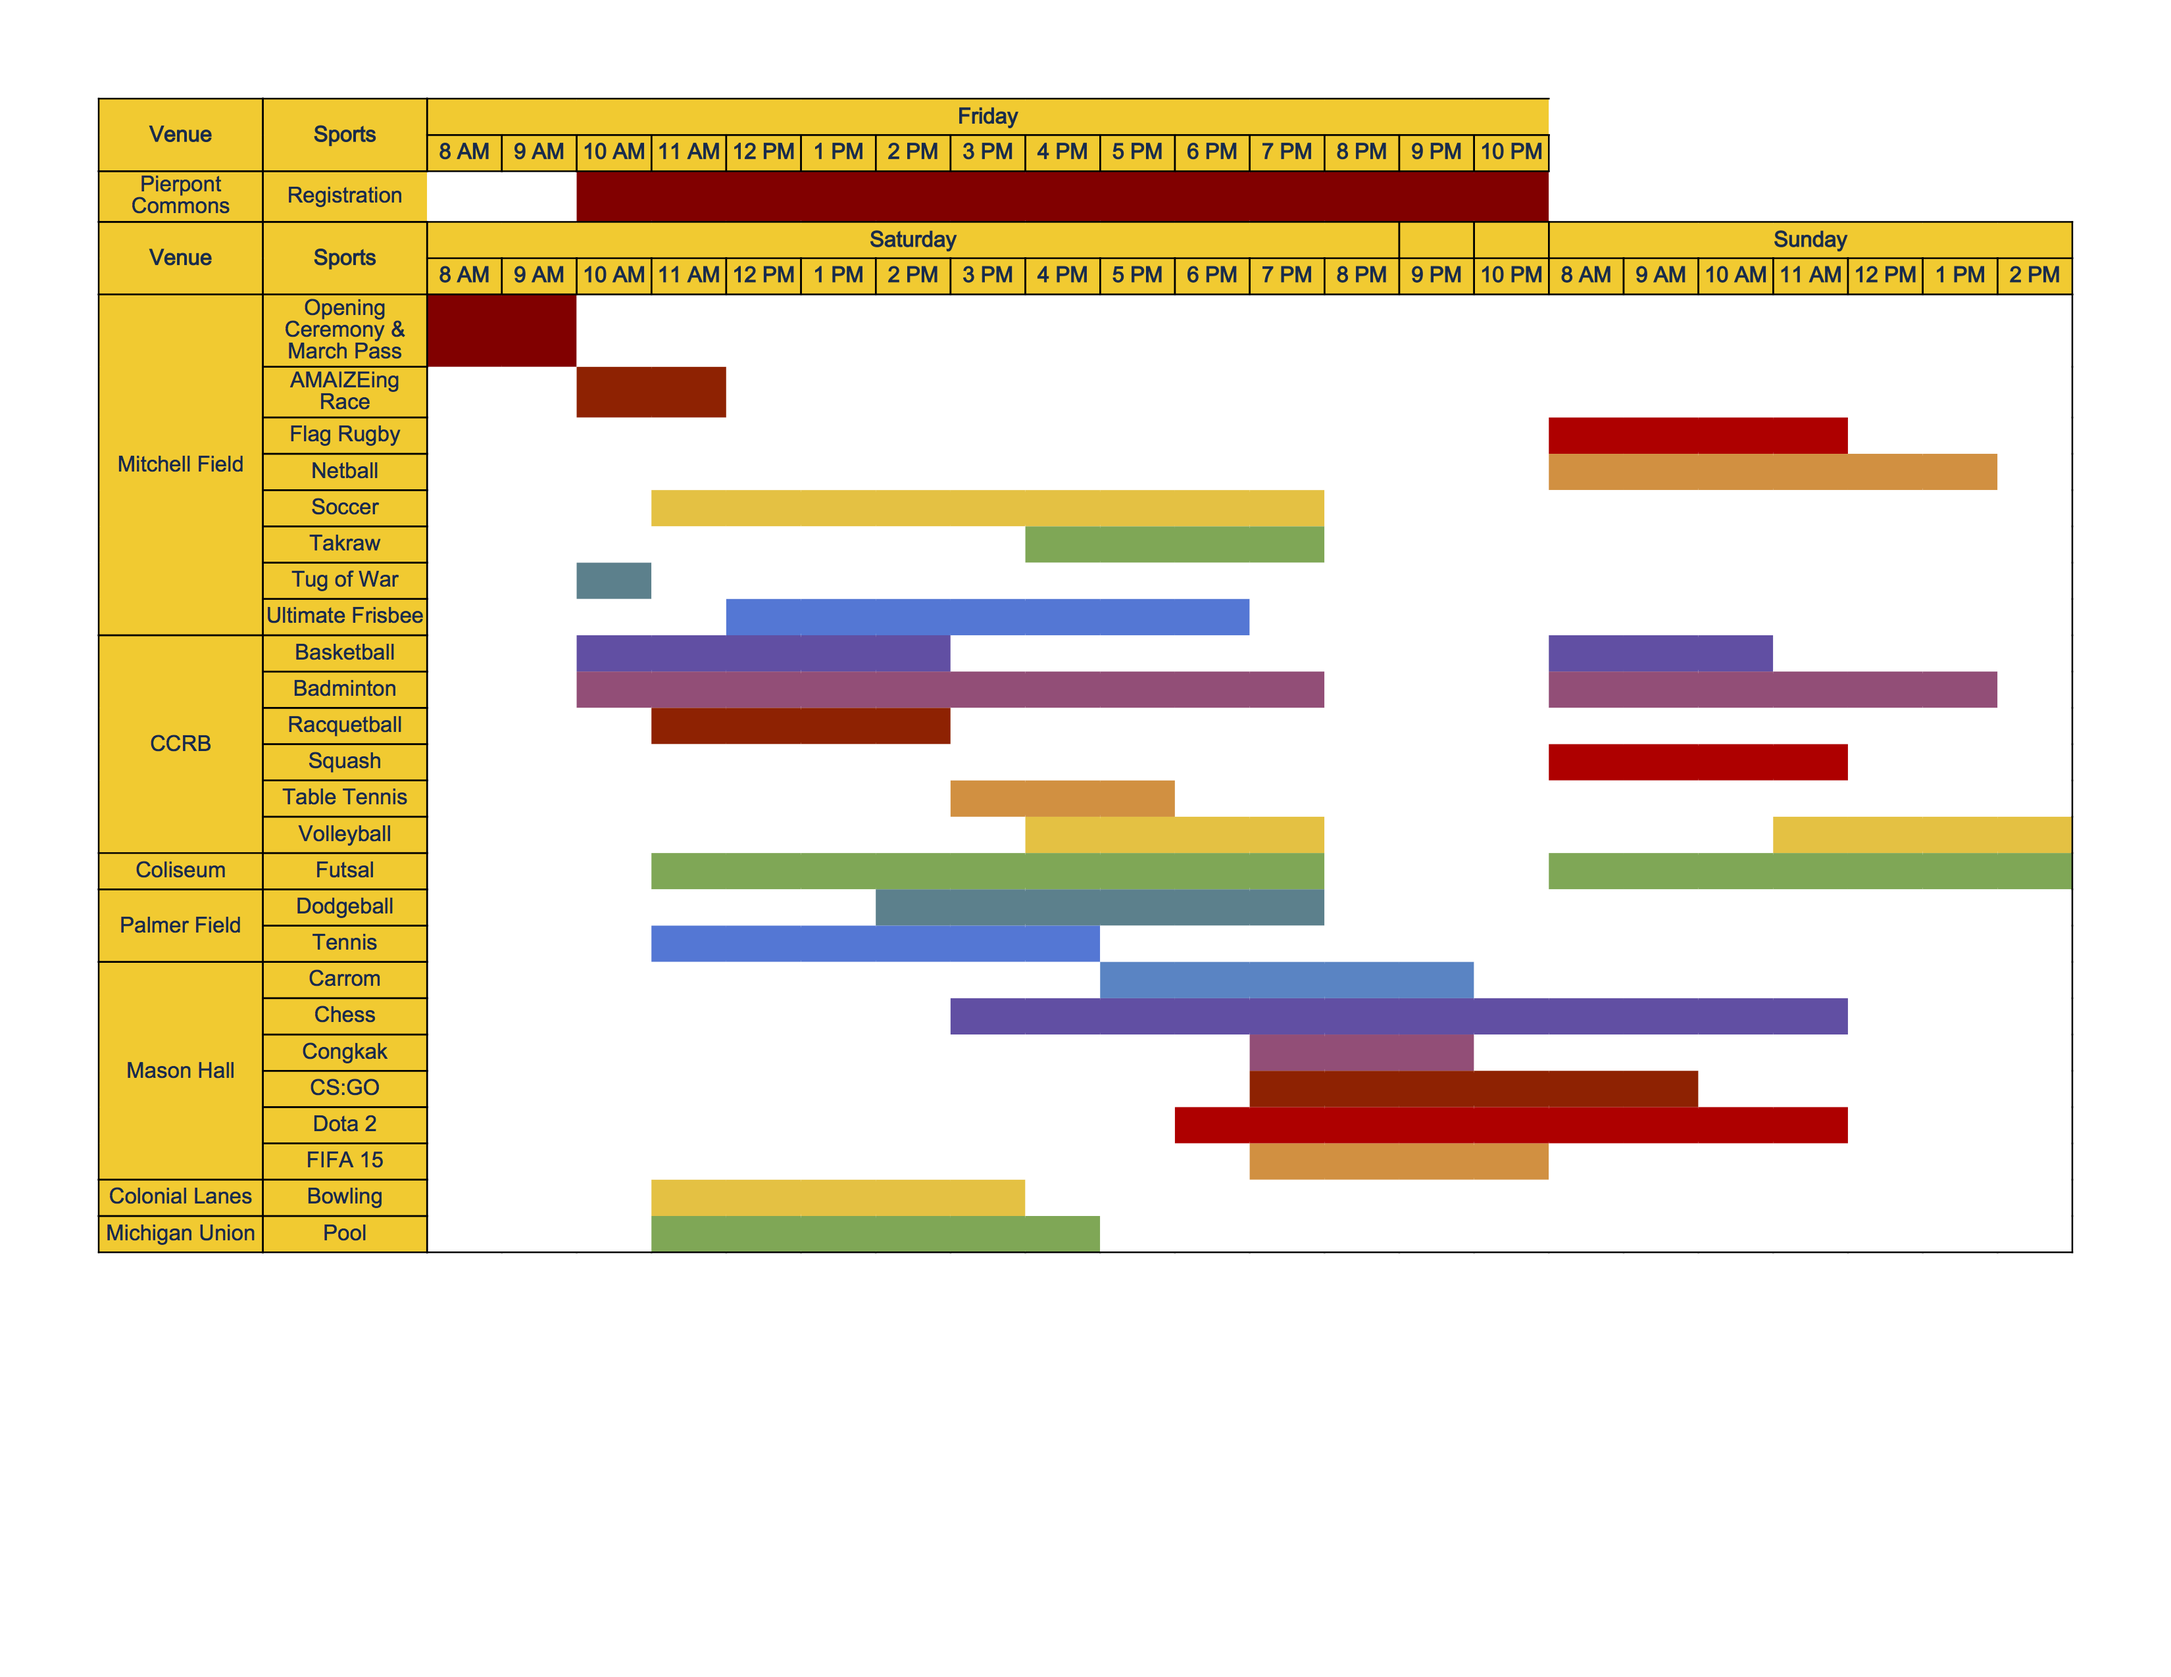
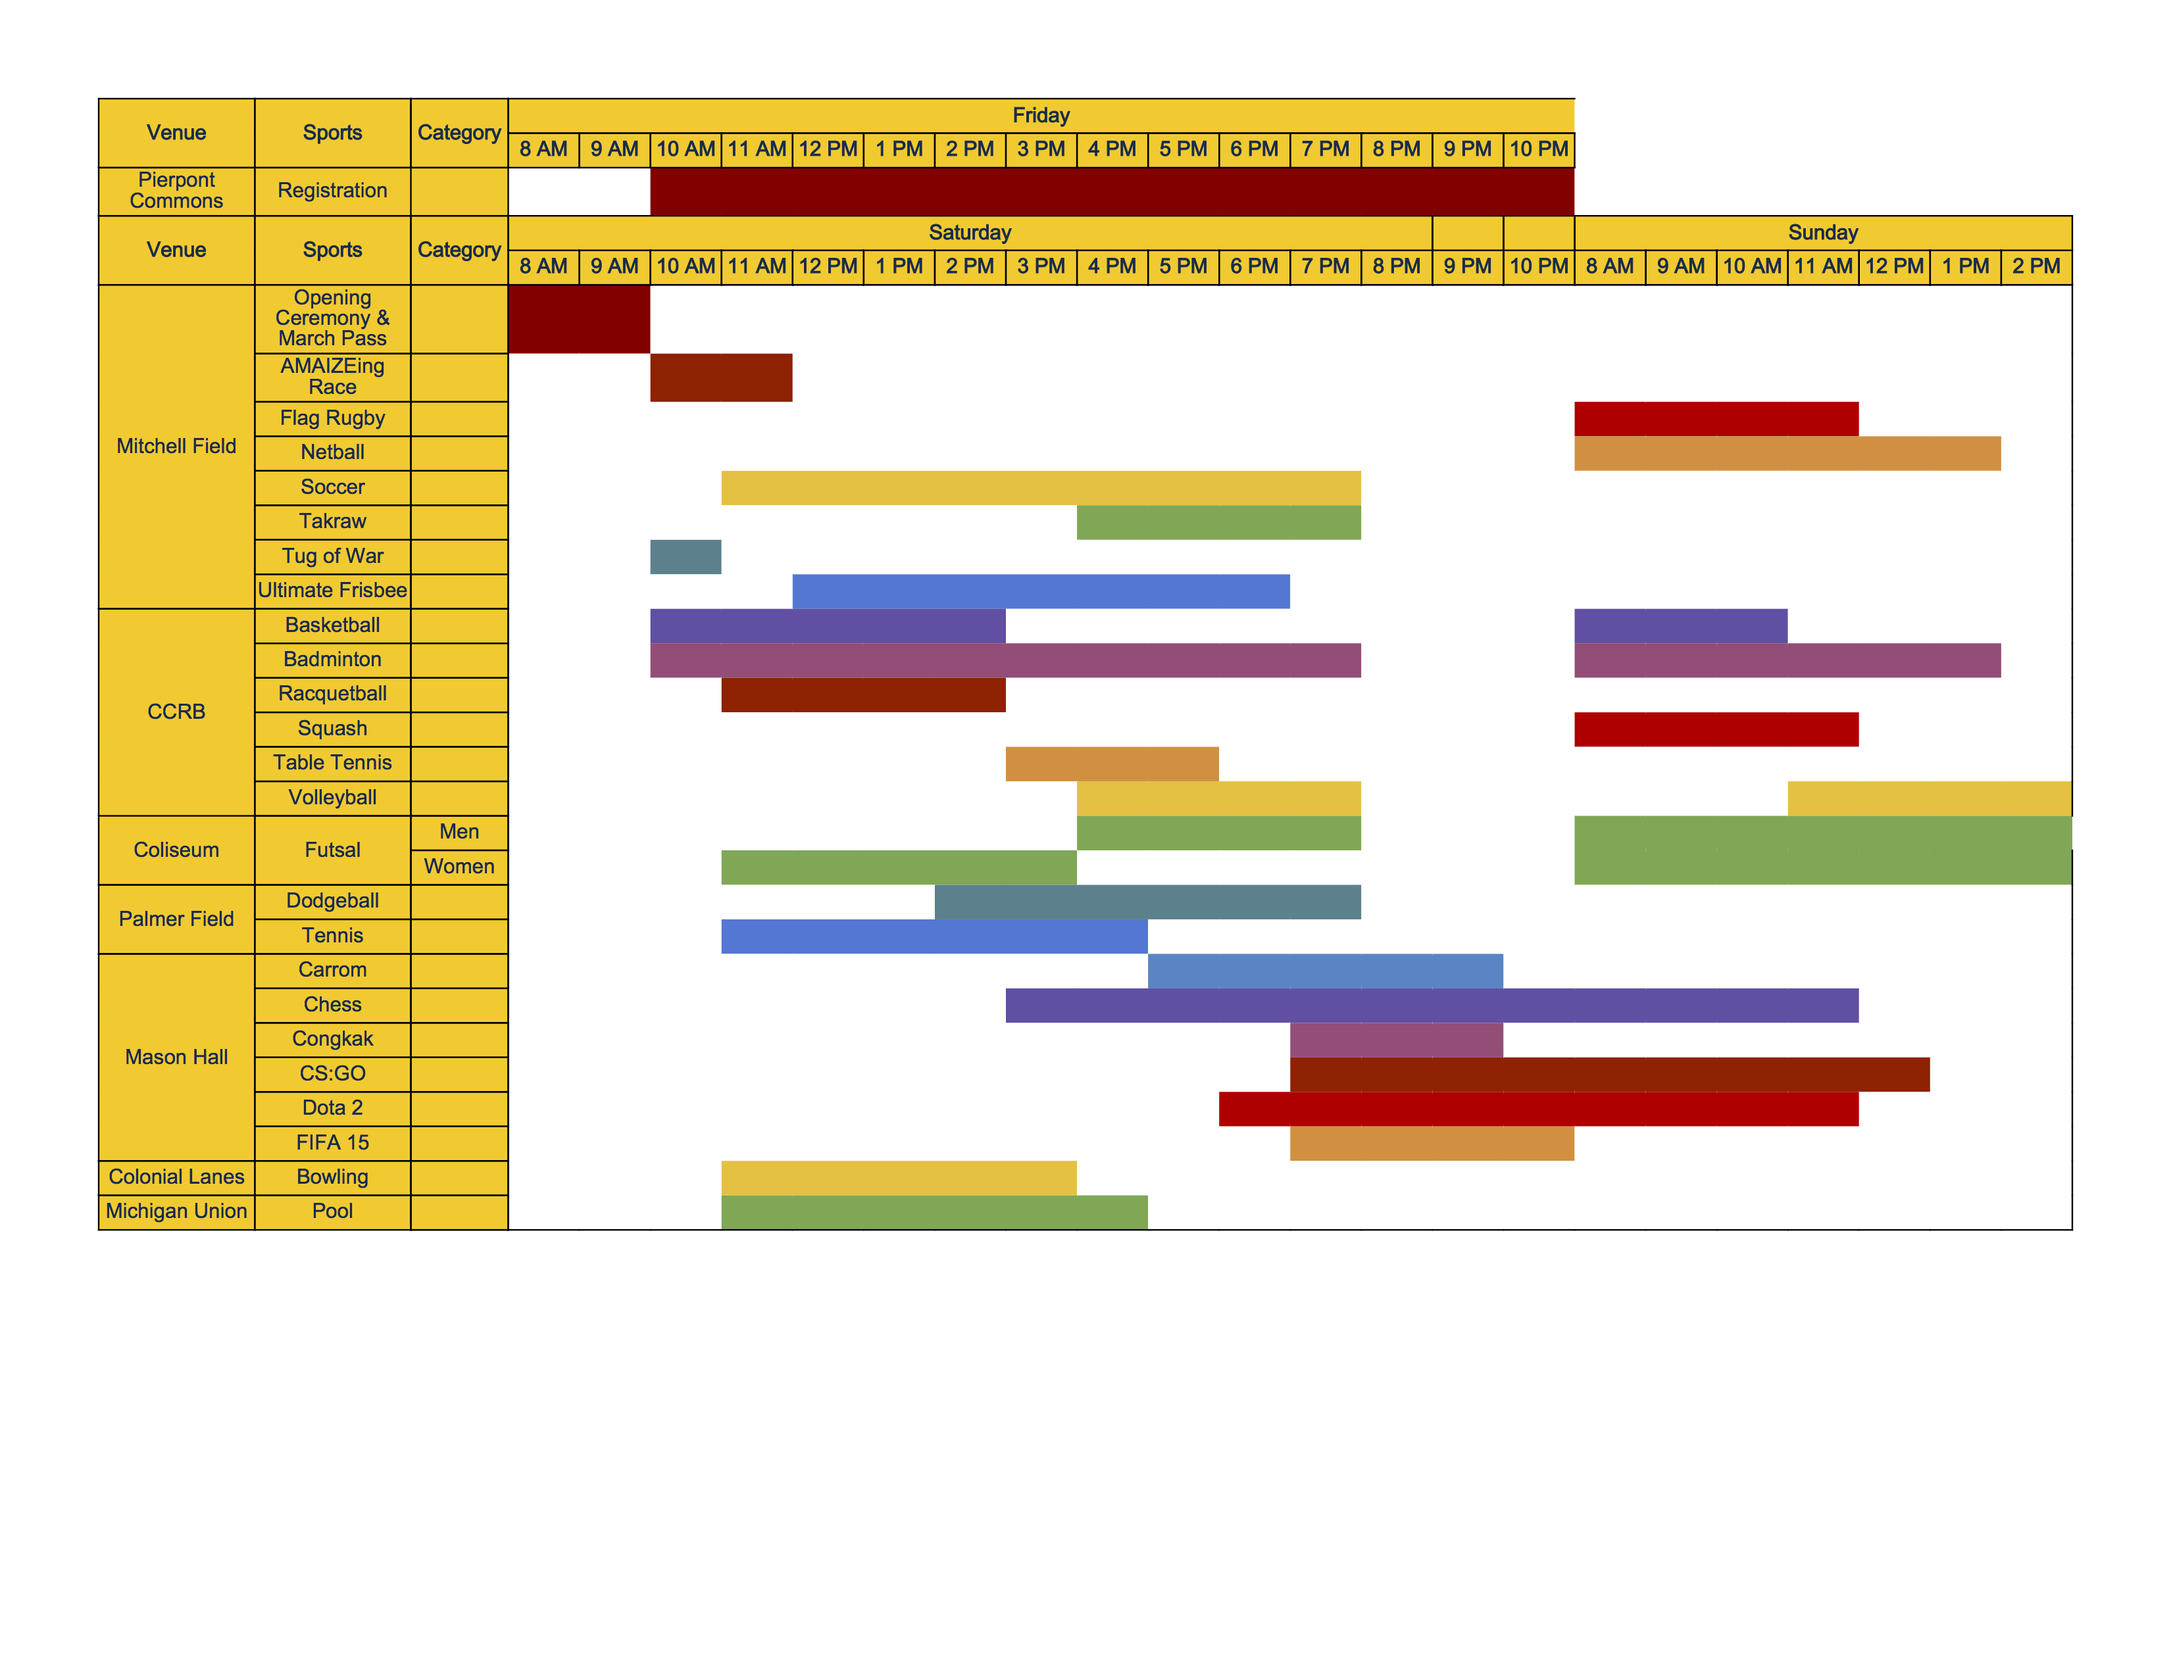
Updated schedule and fixed dashboard error

diff --git a/ng-app/app/scripts/controllers/dashboard.js b/ng-app/app/scripts/controllers/dashboard.js
@@ -13,8 +13,7 @@ angular.module('midwestApp')
     $scope.todos = [
     {
       title: 'Register for sports',
-      label: 'Pay now',
-      link: 'sportsreg'
+      label: 'Coming soon'
     },
     {
       title: 'Audition for Midwest Night',
@@ -31,13 +30,13 @@ angular.module('midwestApp')
         });
       }
 
-      if (user.registration_payment_status) {
+      /*if (user.registration_payment_status) {
         $scope.todos.unshift({
           title: 'Register for sports',
           label: 'Coming soon'//,
           //link: 'sportsreg'
         });
-      }
+      }*/
 
       //TODO: Call API to read all games that the player is playing and display it on sports tab
       $http.get('api/participants/get/?user_id=' + user.id)
